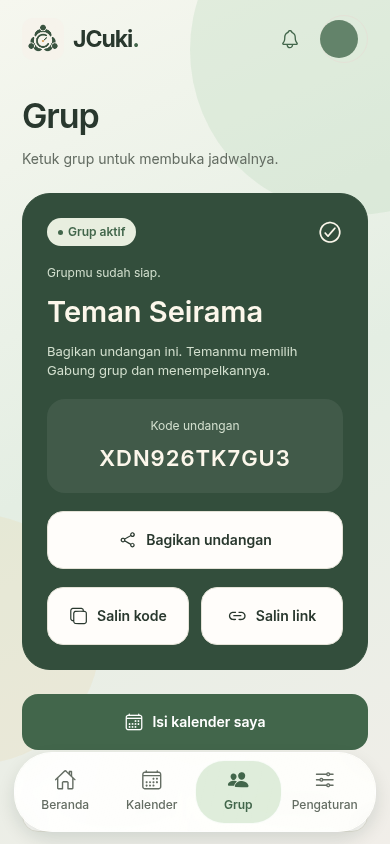
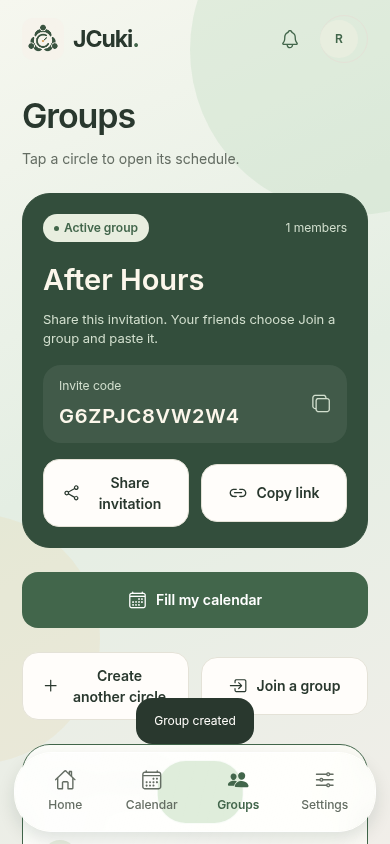
Run app requests beside the Tokyo database and document verified mobile flows

diff --git a/src/auth/actions.ts b/src/auth/actions.ts
@@ -1,6 +1,7 @@
 import { supabase } from "./client";
 import type { AccountFields } from "./validation";
 import { getDeviceTimeZone } from "../services/preferences";
+import { withFunctionRegion } from "../lib/functionRegion";
 const API_URL =
   process.env.EXPO_PUBLIC_API_URL?.trim() ||
   "https://chzyuktjcyrpbdwvdgsc.supabase.co/functions/v1/jcuki";
@@ -9,12 +10,15 @@ export async function registerAccount(fields: AccountFields) {
   const timer = setTimeout(() => controller.abort(), 20000);
   let response: Response;
   try {
-    response = await fetch(API_URL.replace(/\/+$/, "") + "/auth/register", {
-      method: "POST",
-      headers: { "Content-Type": "application/json" },
-      body: JSON.stringify({ ...fields, zone: getDeviceTimeZone() }),
-      signal: controller.signal,
-    });
+    response = await fetch(
+      withFunctionRegion(API_URL.replace(/\/+$/, "") + "/auth/register"),
+      {
+        method: "POST",
+        headers: { "Content-Type": "application/json" },
+        body: JSON.stringify({ ...fields, zone: getDeviceTimeZone() }),
+        signal: controller.signal,
+      },
+    );
   } finally {
     clearTimeout(timer);
   }

diff --git a/src/lib/functionRegion.ts b/src/lib/functionRegion.ts
@@ -1,0 +1,16 @@
+/** Keep DB round trips in the project's region; callers still use their own local time zone. */
+export function withFunctionRegion(address: string): string {
+  const url = new URL(address);
+  if (!url.pathname.startsWith("/functions/v1/")) return address;
+  const configured = process.env.EXPO_PUBLIC_FUNCTION_REGION?.trim();
+  if (configured === "auto") return address;
+  const region =
+    configured ||
+    (url.hostname === "chzyuktjcyrpbdwvdgsc.supabase.co"
+      ? "ap-northeast-1"
+      : "");
+  if (!/^[a-z]{2}-[a-z]+-\d$/.test(region)) return address;
+  // The gateway query option also works on web without adding a CORS preflight header.
+  url.searchParams.set("forceFunctionRegion", region);
+  return url.href;
+}

diff --git a/src/lib/privateAvatar.ts b/src/lib/privateAvatar.ts
@@ -1,3 +1,5 @@
+import { withFunctionRegion } from "./functionRegion.ts";
+
 /** Fetch private images ourselves: RN Web/Image cannot reliably attach refreshed auth headers. */
 export function avatarURL(value: string, apiBase: string) {
   try {
@@ -66,7 +68,7 @@ export function createPrivateAvatarLoader({
           timer = setTimeout(() => controller.abort(), 15000);
         try {
           const request = async (refresh: boolean) =>
-            fetcher(url, {
+            fetcher(withFunctionRegion(url), {
               headers: {
                 Authorization: "Bearer " + (await getToken(scope, refresh)),
               },

diff --git a/src/lib/api.ts b/src/lib/api.ts
@@ -13,6 +13,7 @@ import type {
   PageOptions,
   Profile,
 } from "./types";
+import { withFunctionRegion } from "./functionRegion.ts";
 
 export class APIError extends Error {
   code: string;
@@ -124,7 +125,7 @@ export function createApiClient({
       timeout = setTimeout(() => controller.abort(), 15000);
     try {
       const send = async (refresh: boolean) =>
-        fetcher(origin + "/api" + path, {
+        fetcher(withFunctionRegion(origin + "/api" + path), {
           method,
           headers: {
             ...(await headers(refresh)),

diff --git a/scripts/native-smoke.py b/scripts/native-smoke.py
@@ -10,6 +10,7 @@ import subprocess
 import time
 import urllib.error
 import urllib.request
+import urllib.parse
 import xml.etree.ElementTree as ET
 import zlib
 from pathlib import Path
@@ -34,6 +35,9 @@ def adb(*args, binary=False):
 
 def http(path, method='GET', body=None, auth=False):
     url = SUPABASE + path if auth else API + path
+    region = os.environ.get('EXPO_PUBLIC_FUNCTION_REGION') or ('ap-northeast-1' if API.startswith('https://chzyuktjcyrpbdwvdgsc.supabase.co/functions/v1/') else '')
+    if not auth and region and region != 'auto':
+        url += ('&' if '?' in url else '?') + urllib.parse.urlencode({'forceFunctionRegion': region})
     headers = {'Content-Type': 'application/json', 'apikey': KEY}
     if not auth and TOKEN:
         headers['Authorization'] = 'Bearer ' + TOKEN

diff --git a/README.md b/README.md
@@ -18,11 +18,13 @@ APK tersedia melalui GitHub Release setelah workflow build dan publikasi berhasi
 
 Untuk memasang: buka APK di Android 13 atau lebih baru, izinkan pemasangan dari sumber browser/file manager jika diminta OS, lalu buka Jcuki. iPhone memerlukan build terpisah melalui EAS dan Apple signing; APK tidak dapat dipasang di iPhone. Lihat [panduan build](docs/BUILD.md).
 
-## Pembaruan 1.6.0
+## Pembaruan 1.6.1
 
 Beranda menunjukkan langkah berikutnya sesuai isi grup: undang teman, pilih waktu, lalu buat rencana. Panel undangan lebih ringkas; ketuk kode untuk menyalin, atau gunakan Bagikan / Salin link. Profil membedakan perubahan yang belum disimpan dan foto yang belum terunggah, dengan tombol unggah ulang tanpa memilih foto lagi. Refresh otomatis mempertahankan halaman grup, agenda, serta riwayat yang sudah dibuka.
 
 Build baru wajib lolos pemeriksaan langsung ke server Supabase untuk pendaftaran, login dua sesi perangkat, profil, tiga anggota grup, jadwal, respons rencana, foto privat dan pagination sebelum APK diterbitkan. [Cakupan dan batas pengujian](docs/QA.md).
+
+Permintaan aplikasi diarahkan ke Tokyo, dekat database. Pada sampel terkontrol, pembacaan profil/grup turun dari 2,5–3,6 detik menjadi 0,44–0,53 detik. Ini mengurangi waktu tunggu jaringan ketika membuka dan menyimpan jadwal; hasil tiap perangkat/jaringan dapat berbeda. Perpindahan ke password kosong juga mengukur posisi input sebelum karakter pertama diketik.
 
 ### Perbaikan 1.5.0
 
@@ -81,6 +83,15 @@ Alur awal dan undangan terbaru:
 
 Screenshot berikut berasal dari layar React Native yang dirender di browser untuk pemeriksaan layout, memakai data pengujian atau contoh. Picker OS, suara, keyboard, widget, dan push background harus diuji di aplikasi native.
 
+Tampilan alur 1.6.0 dengan data fiktif: langkah berikutnya pada grup baru, tema gelap, undangan ringkas, dan pengunggahan foto yang bisa dicoba ulang.
+
+<p>
+<img src="docs/preview/group-setup-light.png" alt="Langkah berikutnya berdasarkan isi grup" width="190" />
+<img src="docs/preview/group-setup-dark.png" alt="Panduan grup dalam tema gelap" width="190" />
+<img src="docs/preview/invitation-compact.png" alt="Kode undangan yang dapat diketuk dan tombol berbagi" width="190" />
+<img src="docs/preview/account-photo-retry.png" alt="Foto lokal belum tersinkron dan tombol unggah ulang" width="190" />
+</p>
+
 <p>
 <img src="docs/preview/loading-light.png" alt="Loading dengan logo baru" width="190" />
 <img src="docs/preview/login-english.png" alt="Login dalam bahasa Inggris" width="190" />
@@ -111,6 +122,8 @@ Screenshot berikut berasal dari layar React Native yang dirender di browser untu
 | Layar / dialog            | Preview                                                                                                                                                                                                                   |
 | ------------------------- | ------------------------------------------------------------------------------------------------------------------------------------------------------------------------------------------------------------------------- |
 | Akun | [Login](docs/preview/login-light.png), [Daftar](docs/preview/register-light.png), [Error](docs/preview/login-error.png), [Profil](docs/preview/account-light.png) |
+| Alur grup 1.6.0 | [Light](docs/preview/group-setup-light.png), [Dark](docs/preview/group-setup-dark.png), [Undangan](docs/preview/invitation-compact.png) |
+| Status penyimpanan 1.6.0 | [Perubahan belum disimpan](docs/preview/account-unsaved.png), [Unggah ulang foto](docs/preview/account-photo-retry.png) |
 | Undangan dari link | [Konfirmasi bergabung](docs/preview/join-invitation.png) |
 | Loading                   | [Light](docs/preview/loading-light.png)                                                                                                                                                                                   |
 | Profil dan foto | [Akun saya](docs/preview/account-light.png) |
@@ -165,7 +178,7 @@ Widget Android dan WidgetKit iOS menampilkan libur terdekat dan jam opsional; pe
 
 [Hasil pengujian APK 1.5.0 pada Android 13 dan 15](https://github.com/Adelberth-Von/App-Jcuki/actions/runs/38714634660) · [Release 1.5.0](https://github.com/Adelberth-Von/App-Jcuki/releases/tag/v1.5.0-preview-17). Keyboard, akun lintas perangkat, grup, serta foto setelah restart/offline telah lolos pada APK yang diterbitkan.
 
-TypeScript, ESLint dan 62 tes Node memeriksa tiga identitas nyata pada backend SQLite, isolasi grup, foto, transaksi jadwal/aktivitas/antrean, pagination, zona waktu/DST, klaim profil lama, isolasi akun, validasi pendaftaran, penyimpanan sesi besar/terputus, identitas perangkat, terjemahan, serta properti WAV. Uji langsung pada Supabase memeriksa profil tiga zona, buat/gabung grup, penolakan anggota luar, jadwal, rencana, respons, foto, dan cursor aktivitas. Browser QA juga memeriksa daftar langsung aktif, pop-up password salah/tidak cocok, keluar/masuk, profil dan grup pada sesi/perangkat baru, serta undangan yang dilanjutkan setelah pendaftaran. Browser QA memeriksa kalender, lintas tengah malam, bentrok, pagination, persistensi, tema sistem, dan lebar 320/390/430 px. GitHub Actions memeriksa APK minSdk 33 dan signature, lalu menjalankan APK yang sama pada emulator Android 13 dan 15 sebelum publikasi. Uji native memeriksa posisi input saat keyboard terbuka, daftar akun, pemulihan profil/grup setelah data aplikasi emulator dihapus, serta foto privat setelah restart dan saat offline. [Detail pengujian native](tests/README.native.md). Status kompilasi terbaru dapat dilihat di link build; keberhasilan bundel bukan bukti QA perangkat.
+TypeScript, ESLint dan 63 tes Node memeriksa tiga identitas nyata pada backend SQLite, isolasi grup, foto, transaksi jadwal/aktivitas/antrean, pagination, zona waktu/DST, klaim profil lama, isolasi akun, validasi pendaftaran, penyimpanan sesi besar/terputus, identitas perangkat, terjemahan, serta properti WAV. Uji langsung pada Supabase memeriksa profil tiga zona, buat/gabung grup, penolakan anggota luar, jadwal, rencana, respons, foto, dan cursor aktivitas. Browser QA juga memeriksa daftar langsung aktif, pop-up password salah/tidak cocok, keluar/masuk, profil dan grup pada sesi/perangkat baru, serta undangan yang dilanjutkan setelah pendaftaran. Browser QA memeriksa kalender, lintas tengah malam, bentrok, pagination, persistensi, tema sistem, dan lebar 320/390/430 px. GitHub Actions memeriksa APK minSdk 33 dan signature, lalu menjalankan APK yang sama pada emulator Android 13 dan 15 sebelum publikasi. Uji native memeriksa posisi input saat keyboard terbuka, daftar akun, pemulihan profil/grup setelah data aplikasi emulator dihapus, serta foto privat setelah restart dan saat offline. [Detail pengujian native](tests/README.native.md). Status kompilasi terbaru dapat dilihat di link build; keberhasilan bundel bukan bukti QA perangkat.
 
 Pengiriman push FCM/APNs, suara native, gallery native, widget, TalkBack/VoiceOver dan performa perangkat tetap memerlukan uji Android/iPhone setelah konfigurasi. [Checklist perangkat dan build](docs/BUILD.md) · [Uji notifikasi tiga perangkat](docs/NOTIFICATIONS.md).
 

diff --git a/docs/BUILD.md b/docs/BUILD.md
@@ -2,7 +2,7 @@
 
 ## GitHub Actions Android preview
 
-Every push to `main` runs TypeScript checking, lint, and behavior tests, then generates the native Android project and builds `:app:assembleRelease`. It uploads `JCuki-Android13-preview.apk` as an artifact, tests that exact APK on Android 13/API 33 and Android 15/API 35 emulators, then publishes a versioned **Android preview** release with the same asset. The stable [one-click APK link](https://github.com/Adelberth-Von/App-Jcuki/releases/latest/download/JCuki-Android13-preview.apk) resolves after the first successful publication. The APK has minimum SDK 33 (Android 13), embeds the JavaScript bundle, and can run without Metro or Expo Go.
+Every push to `main` runs TypeScript checking, lint, and behavior tests, then generates the native Android project and builds `:app:assembleRelease`. It uploads `JCuki-Android13-preview.apk` as an artifact, tests that exact APK on Android 13/API 33 and Android 15/API 35 emulators, then waits for the live Supabase system check and iOS compilation before publishing a versioned **Android preview** release with the same asset. The stable [one-click APK link](https://github.com/Adelberth-Von/App-Jcuki/releases/latest/download/JCuki-Android13-preview.apk) resolves after the first successful publication. The APK has minimum SDK 33 (Android 13), embeds the JavaScript bundle, and can run without Metro or Expo Go.
 
 The automated APK is an **internal preview**. Expo SDK 57's generated release build uses its template debug signing key unless production signing is configured. CI verifies that configuration so a future template change cannot silently alter it. This key is intentionally unsuitable for Google Play production distribution. To publish, use your private production keystore or the EAS `production` profile with managed credentials.
 
@@ -10,11 +10,11 @@ The job uses Ubuntu 24.04, Node 24, Java 17, Android SDK/build tools 36, the Rea
 
 The workflow creates native projects from Expo configuration; generated `android/` and `ios/` projects are not maintained by hand. It publishes only the preview APK and release metadata, never keys, credentials, source maps, or backend deployment. Only the publication job receives `contents: write`; it verifies that its commit is still the current main head before creating an immutable build tag and setting the latest release. Re-running an already published build does not overwrite its release asset.
 
-## Optional iOS compile check
+## iOS compile check
 
-In **Actions → JCuki mobile build → Run workflow**, enable `build_ios`. That job uses the official `macos-26` ARM runner and selects `/Applications/Xcode_26.4.1.app/Contents/Developer`, meeting SDK 57's Xcode 26.4+ requirement. It generates the iOS project and WidgetKit extension, installs CocoaPods, and compiles the app for a generic iOS Simulator with signing disabled.
+Main pushes also compile iOS. A manual run enables `build_ios` by default; it can be disabled for an Android-only diagnostic run, which does not publish a new release. The iOS job uses the official `macos-26` ARM runner and selects `/Applications/Xcode_26.4.1.app/Contents/Developer`, meeting SDK 57's Xcode 26.4+ requirement. It generates the iOS project and WidgetKit extension, installs CocoaPods, and compiles the app for a generic iOS Simulator with signing disabled.
 
-This is a compilation check, not an IPA or device test. The job is disabled on normal pushes. If GitHub removes that Xcode installation, the version check fails explicitly; update the runner/Xcode path together after checking the official runner inventory. Installing on a physical iPhone requires Apple device signing and provisioning, including the app group's widget extension. JCuki targets iOS 16.4 or later.
+This is a compilation check, not an IPA or device test. Publication also waits for this compile check and the live Supabase system check. If GitHub removes that Xcode installation, the version check fails explicitly; update the runner/Xcode path together after checking the official runner inventory. Installing on a physical iPhone requires Apple device signing and provisioning, including the app group's widget extension. JCuki targets iOS 16.4 or later.
 
 ## EAS builds
 

diff --git a/docs/QA.md b/docs/QA.md
@@ -1,4 +1,4 @@
-# Verifikasi sistem Jcuki 1.6.0
+# Verifikasi sistem Jcuki 1.6.x
 
 ## Akun dan database
 
@@ -12,6 +12,20 @@ Pemeriksaan pada 21 Oktober 2026, sebelum membuat akun QA baru, menemukan 8 akun
 
 ## Pemeriksaan yang dapat diulang
 
+Optimasi 1.6.1 mengarahkan permintaan fungsi ke wilayah database Tokyo melalui parameter gateway resmi. [Perbandingan pada data QA yang sama](https://github.com/Adelberth-Von/App-Jcuki/actions/runs/39594949833/job/119204836529) melakukan tiga putaran per endpoint, dengan urutan wilayah bergantian:
+
+| Pembacaan | Median routing otomatis dari AS | Median Tokyo |
+| --- | ---: | ---: |
+| Profil | 2.550 ms | 474 ms |
+| Daftar grup | 2.804 ms | 458 ms |
+| Detail grup | 3.545 ms | 458 ms |
+
+Angka ini adalah hasil sampel pengujian, bukan target yang dijamin pada semua jaringan. Zona waktu kalender pengguna ditentukan dari perangkat, terpisah dari lokasi komputasi fungsi.
+
+[Pemeriksaan server pada build 19](https://github.com/Adelberth-Von/App-Jcuki/actions/runs/39589684991/job/119187439795) **lulus** pada 21 Oktober 2026: tiga akun baru, profil awal yang dimuat bersamaan, dua sesi independen, serta seluruh skenario di bawah. Pemeriksaan agregat selama audit memastikan seluruh akun yang diperiksa memakai bcrypt; tidak ada nilai hash atau kredensial yang dibaca/ditampilkan dalam laporan.
+
+[Kompilasi iOS Simulator pada build yang sama](https://github.com/Adelberth-Von/App-Jcuki/actions/runs/39589684991/job/119187439830) **lulus**, termasuk aplikasi dan extension widget, memakai Xcode 26.4.1. Ini bukan uji interaksi di iPhone fisik atau IPA bertanda tangan.
+
 `npm run typecheck`, `npm run lint`, dan `npm test` memeriksa kode serta perilaku backend lokal. Pengujian regresi pagination membuka 40 agenda dan riwayat, mengubah respons, membatalkan rencana, lalu melakukan refresh dan melanjutkan cursor. Pengujian juga memastikan grup yang keanggotaannya sudah hilang tidak tetap ditampilkan.
 
 `node scripts/live-system-check.mjs` memakai publishable key dan API aplikasi yang sama dengan pengguna. Script membuat **3 akun QA berlabel** dengan password acak yang hanya disimpan di memori. Jangan menjalankannya berulang tanpa kebutuhan: akun dan rencana QA sengaja dipertahankan, dan pembatasan pendaftaran tetap berlaku. Script tidak memakai service-role key, mengubah akun pengguna yang ada, atau menghapus data pengguna.
@@ -19,6 +33,10 @@ Pemeriksaan pada 21 Oktober 2026, sebelum membuat akun QA baru, menemukan 8 akun
 Cakupannya: pendaftaran di Supabase, password salah, email duplikat, dua sesi independen pada akun yang sama, sinkronisasi profil/grup, tiga zona waktu, penolakan orang di luar grup, tiga anggota, konfirmasi libur dan jam, respons rencana, izin pembatalan, pagination agenda 20+2, pagination aktivitas, foto privat, refresh token, dan logout satu perangkat yang tidak mengeluarkan perangkat lain. Log hanya berisi nama pemeriksaan dan jumlah, tanpa email/password/token.
 
 Workflow build menunggu pemeriksaan server ini dan uji APK pada emulator Android 13 serta 15 sebelum publikasi. [Detail uji native](../tests/README.native.md) mencakup keyboard yang benar-benar terbuka, instalasi baru, pemulihan akun/grup dan foto setelah restart/offline.
+
+Posisi input diuji **sebelum karakter pertama diketik**, termasuk perpindahan lewat tombol Berikutnya ke password kosong. Formulir mengukur batas penuh input terhadap posisi keyboard saat fokus berpindah dan setelah keyboard terbuka, sehingga tidak bergantung pada munculnya event seleksi teks. Pengujian tombol rencana menggunakan pengenal kontrol agar teks panduan tidak dianggap sebagai tombol.
+
+Pemeriksaan browser pada sesi ini memakai backend lokal dan Auth fiktif untuk menguji UI tanpa data pribadi: daftar akun, buat/gabung grup lewat link, pesan kode tidak ditemukan, tidak ada halaman beranda ganda setelah buat/gabung, status perubahan profil, unggahan foto yang sengaja digagalkan lalu dicoba ulang, serta target tombol pada 320/360/430 px dan tema gelap. Ini melengkapi pengujian Supabase langsung; server fiktif tidak dipakai untuk menyimpulkan bahwa autentikasi produksi bekerja.
 
 ## Batas hasil pengujian
 

diff --git a/docs/SUPABASE.md b/docs/SUPABASE.md
@@ -62,6 +62,14 @@ Push saat aplikasi tertutup **belum aktif**: masih membutuhkan proyek Expo/EAS, 
 
 ## Pemeriksaan masalah
 
+### Wilayah eksekusi fungsi
+
+Klien 1.6.1 mengirim `forceFunctionRegion=ap-northeast-1` untuk API proyek bawaan ini, sehingga komputasi berjalan di Tokyo bersama database. Pendaftaran, kalender, grup, pagination dan unduhan foto privat memakai aturan yang sama. URL undangan dan zona waktu pengguna tetap mengikuti alur biasa. Opsi query resmi ini tidak menambah header CORS atau mengubah token/autorisasi.
+
+[Benchmark terkontrol](https://github.com/Adelberth-Von/App-Jcuki/actions/runs/39594949833/job/119204836529) membandingkan akun dan data yang sama: 2,5–3,6 detik dengan routing otomatis dari runner AS, dibandingkan 0,44–0,53 detik pada Tokyo. Ini sampel pengujian, bukan jaminan latensi di semua jaringan.
+
+Untuk proyek Supabase lain, atur `EXPO_PUBLIC_FUNCTION_REGION` ke wilayah databasenya. Nilai `auto` memakai routing otomatis; tanpa override, hanya proyek Tokyo bawaan ini yang diarahkan secara eksplisit. Pengaturan wilayah merupakan konfigurasi build. Saat wilayah ditentukan, platform tidak otomatis memindahkan eksekusi ke wilayah lain; lihat [Regional Invocations](https://supabase.com/docs/guides/functions/regional-invocation).
+
 Audit 21 Oktober 2026 memastikan 8 akun awal sudah ada pada **Authentication → Users** dan terhubung ke 8 profil. Semua mempunyai hash password dan riwayat login. `public.User` bukan tabel akun aplikasi; tabel itu kosong dan tidak dipakai handler autentikasi. Detail skenario, pemeriksaan langsung server yang menjadi syarat publikasi, serta batas hasil QA tersedia pada [Verifikasi sistem](QA.md).
 
 - **Mode demo:** tekan **Keluar demo**, lalu buat akun/masuk dan buat/gabung grup.
